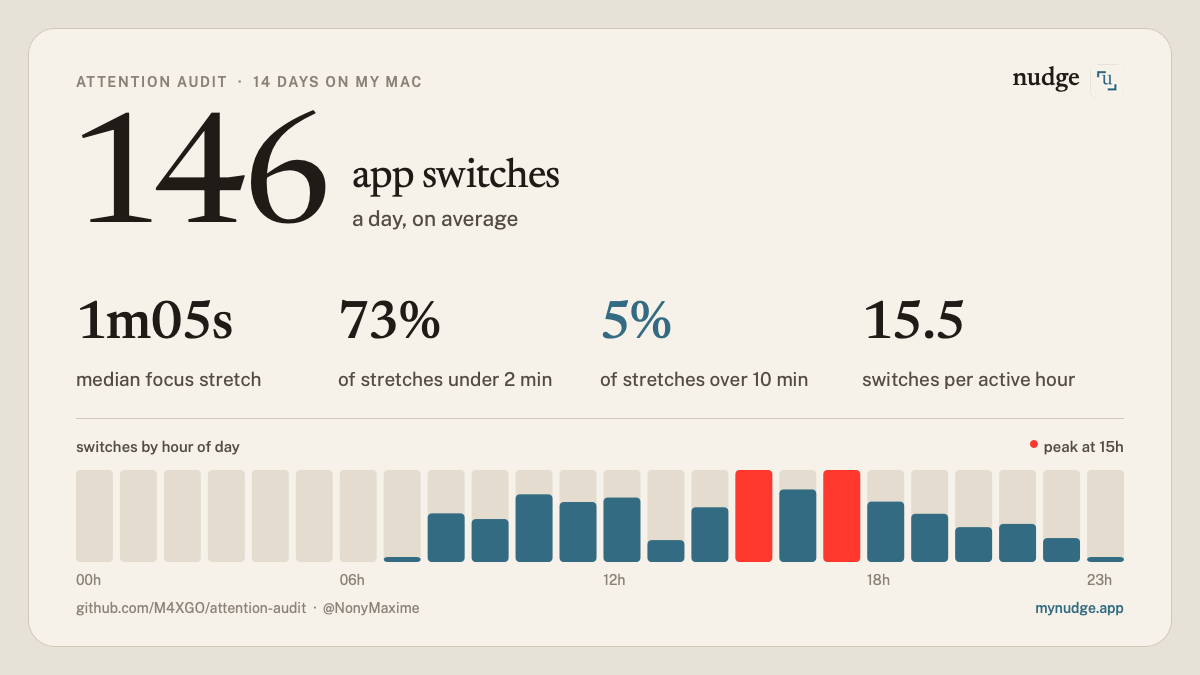
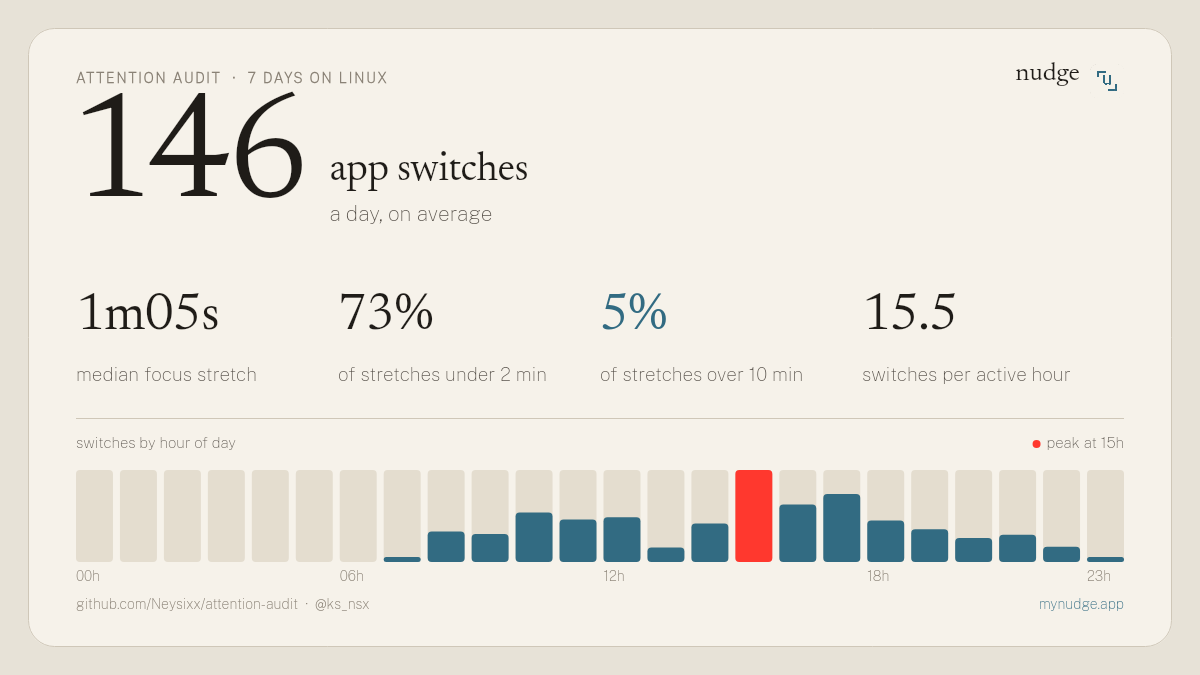
docs: update example card preview with @ks_nsx

diff --git a/card-linux.js b/card-linux.js
@@ -339,7 +339,13 @@ async function main() {
   }));
 }
 
-main().catch(err => {
-  console.error('Error: ' + err.message);
-  process.exit(1);
-});
+if (require.main === module || (process.argv[1] && (process.argv[1].endsWith('card-linux.js') || process.argv[1].endsWith('card.js')))) {
+  if (process.argv.slice(2).length > 0) {
+    main().catch(err => {
+      console.error('Error: ' + err.message);
+      process.exit(1);
+    });
+  }
+}
+
+module.exports = { drawCard, compute, textReport, fmt, readSamples };
